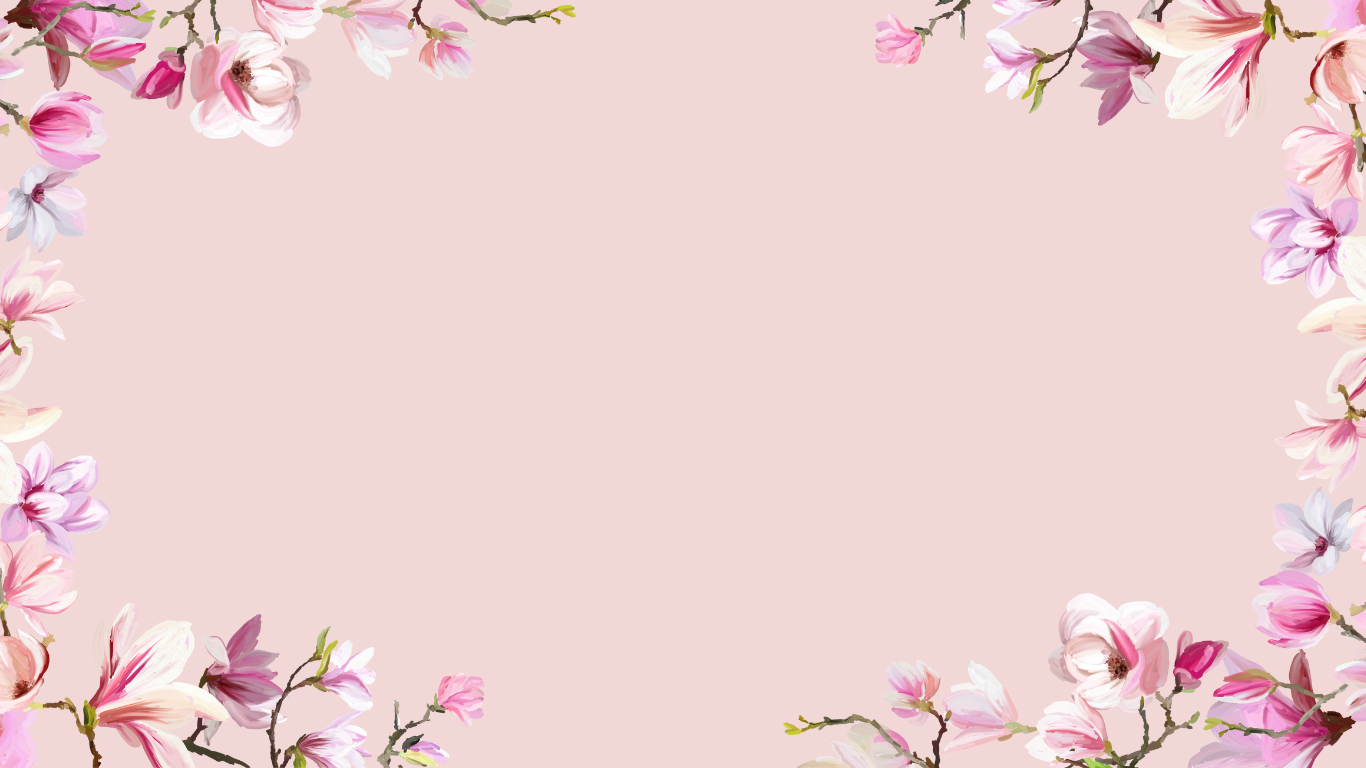
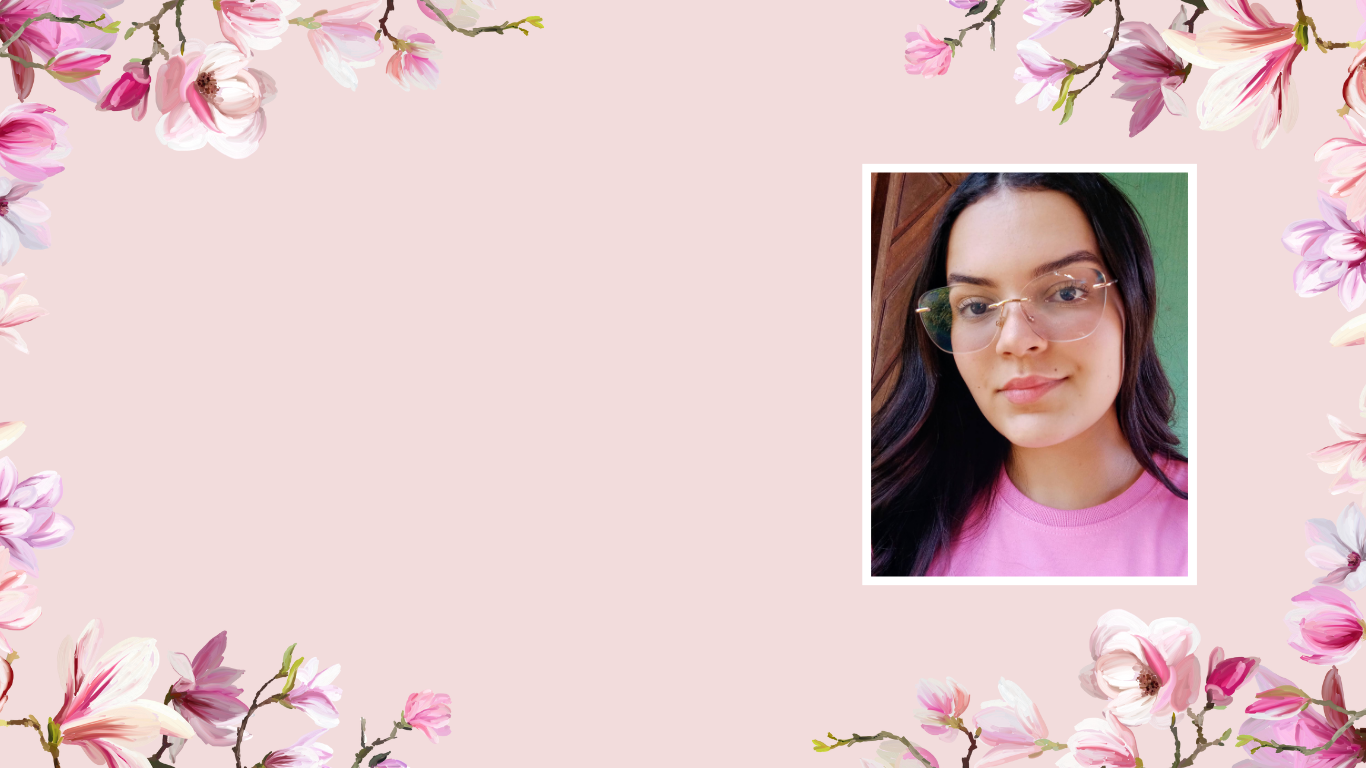
commit

diff --git a/bimestre2/paginaPessoal/index2.html b/bimestre2/paginaPessoal/index2.html
@@ -15,18 +15,17 @@
     <header>
 
         <div class="interface">
-            <section class="logo">
-                <img src="imagens/icon.png" alt="Logotipo do site">
-            </section>
         
             <section class="menu-desktop">
+                
                 <nav>
+                    <h1>Y.F</h1>
                     <a href="#curiosidades">Curiosidades</a>
                     <a href="#historico">Histórico</a>
                     <a href="#causos">Causos</a>
                     <a href="#habilidades">Habilidades</a>
                     <a href="#contatos">Contatos</a>
-                    <h1>Y.F</h1>
+                    
             </nav>
 
             </section>
@@ -39,17 +38,85 @@
             <div class="txt-hero">
 
                 <h1>Yasmin<span>Fernandes</span></h1>
-                <p>Lorem ipsum dolor, sit amet consectetur adipisicing elit. Alias saepe praesentium doloremque minus ratione. <span> aut molestiae unde aperiam earum tempora, hic ea at cum facere illum, porro dolore molestias.</span></p>
-                <a href="#">
-                    <button>Quero conhecer</button>
+                <p>Do Senhor é a terra e tudo o que nela existe, o mundo e os que nele vivem;<span>Salmos 24:1</span></p>
+                <a href="#sobre">
+                    <button>Sobre mim</button>
                 </a>
+            </div>
+        </div>
+    </section>
 
+    <section class="sobre" id="sobre">
+        <div class="interface">
 
-
+            <div class="txt-sobre">
+                <h1>Sobre mim</h1>
+                <p>Olá, Sejam Bem-Vindos ao meu Blog! Meu nome é Yasmin, tenho 18 anos e moro em Ceará-Mirim/RN. Eu sou uma pessoa caseira, gosto de passar tempo com minha família, ir à Igreja e assistir filmes e séries de comédia romântica. Um dos meus sonhos desde pequena é viajar o mundo, ter estabilidade financeira, formar uma linda família e morar perto da praia.</p>
             </div>
         </div>
 
 
+    </section>
+
+    <section class="card">
+
+        <div class="interface">
+
+            <article class="card-container">
+            
+                <div class="img-card">
+                    <img src="imagens/praia.jpg" alt="">
+                </div>
+                <div class="txt-card">
+                    <h3>Meu lugar preferido é a praia</h3>
+                </div>
+
+            </article>
+
+            <article class="card-container">
+                <div class="img-card">
+                    <img src="imagens/cachorro.jpg" alt="cachorro">
+                </div>
+
+                <div class="txt-card">
+                    <h3>Tenho medo de cachorro</h3>
+                </div>
+                <div class="img-card">
+
+            </article>
+
+            <article class="card-container">
+            
+                <div class="img-card">
+                    <img src="imagens/nature.jpg" alt="natureza">
+                </div>
+                <div class="txt-card">
+                    <h3>Gosto de Observar a natureza</h3>
+                </div>
+
+            </article>
+
+            <article class="card-container">
+                <div class="img-card">
+                    <img src="imagens/serie.jpg" alt="serie">
+                </div>
+                <div class="txt-card">
+                    <h3>Minha série preferida é Anne with an E</h3>
+                </div>
+
+            </article>
+
+            <article class="card-container">
+               
+                <div class="img-card">
+                    <img src="imagens/peixe.jpg" alt="frutosdomar">
+                </div>
+                <div class="txt-card">
+                    <h3>Não gosto de nenhum fruto do mar</h3>
+                </div>
+
+            </article>
+        </div>
     </section>
 
 

diff --git a/bimestre2/paginaPessoal/style.css b/bimestre2/paginaPessoal/style.css
@@ -6,7 +6,7 @@
     font-family: "Poppins", serif;
 }
 body{
-    background-color: deeppink;
+    background-color: #F8E0E0;
 }
 .interface {
     max-width: 1200px;
@@ -14,21 +14,18 @@ body{
 }
 
 header {
+    text-align: center;
     width: 100%;
-    padding: 10px 0;
-}
-header .logo img{
-    max-width: 40px;
-    display: inline-block;
-    padding-down: 50px;
+    background-color: #F2DCDC;
 }
 
+
 header .menu-desktop a{
+
     display: inline-block;
-    margin: 0 40px;
-    color: pink;
+    margin: 0 60px;
+    color: hotpink;
     text-decoration: none;
-    display: inline-block;
     transition: .2s;
 
 }
@@ -38,8 +35,9 @@ header .menu-desktop a{
 }
 .menu-desktop nav h1{
     font-size: 50px;
-    color: aliceblue;
-    font-weight: 200;
+    color: hotpink;
+    text-align: center;
+    font-weight:  300;
 }
 
 /* Estilo de hero */
@@ -61,7 +59,9 @@ section.hero-site{
 .hero-site .txt-hero h1{
     font-size: 4em;
     line-height: 70px;
-    font-weight:  200;
+    font-weight:  300;
+    padding-right: 80px;
+    padding-top: 200px;
 }
 
 .hero-site .txt-hero h1 span{
@@ -69,7 +69,7 @@ section.hero-site{
 }
 
 .hero-site .txt-hero p{
-    font-size: 20px;
+    font-size: 15px;
     font-weight: 300;
     margin: 20px 0;
 }
@@ -78,8 +78,45 @@ section.hero-site{
     width: 220px;
     height: 60px;
     font-size: 20px;
-    background-color: pink;
-    border: 1px solid #fff;
-    color: #fff;
+    background-color: hotpink;
+    border: 2px solid #F7F2EC;
+    color: #F7F2EC;
     transition: .5s;
+}
+
+.sobre{
+    padding: 80px 0;
+}
+.sobre .txt-sobre h1{
+    font-size: 30px;
+    color: hotpink;
+    
+}
+.sobre .txt-sobre p{
+    padding-top: 10px;
+    color: hotpink;
+}
+
+.card .card-container{
+    text-align: center;
+    display: inline-block;
+    vertical-align: top;
+    margin: 10px;
+    background-color: #F7F2EC;
+    width: 300px;
+    height: 350px;
+    border-radius: 10px;
+
+}
+.card .card-container .img-card img{
+    width: 100%;
+    border-top-left-radius: 10px;
+    border-top-right-radius: 10px;
+    object-fit: cover;
+}
+
+.card .card-container .txt-card{
+    font-size: 15px;
+    padding: 10px;
+
 }
